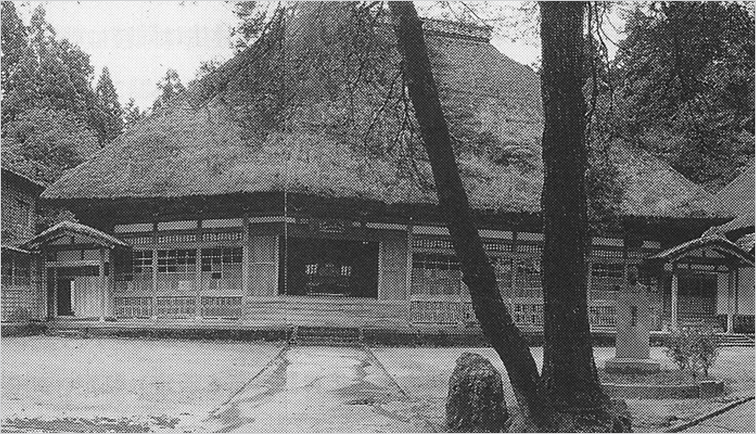
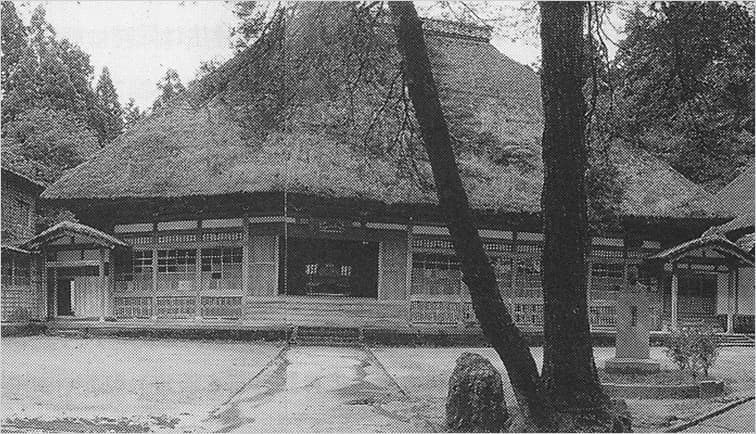
perf(top): 余白圧縮・画像最適化・ヒーロー本文の可読性向上
実機プレビューとパフォーマンス計測（LCP/CLS）のフィードバックに対応。

- 各セクション（あゆみ/お知らせ/会員の方へ）の縦パディングを
  clamp(64px,10vw,120px) → clamp(48px,6vw,80px) に圧縮。ヒーローも
  clamp(72px,12vw,140px) → clamp(56px,8vw,96px) に調整し PC の間延びを解消
- あゆみの節目間の余白と見出し下マージンも詰めて総スクロール量を削減
- 歴史写真・ヒーロー画像を mozjpeg で再エンコード（361KB→87KB / 281KB→63KB）
  し LCP を改善
- ヒーロー画像に fetchPriority="high" と quality を指定（priority は既存）
- あゆみ画像に aspect-ratio と h-auto を明示し、sizes を実レイアウトに合わせて
  CLS を抑制
- ヒーローのコピーを 17px→19px・font-medium・濃色(#241F19)に変更し、
  高齢利用者向けにコントラストと文字サイズを引き上げ

既存機能（認証・ニュース・寄付・署名・名簿・管理画面）のコードは不変更。

Claude-Session: https://claude.ai/code/session_01242bf4G46yDp9rnbArKu1p

diff --git a/components/home/history.tsx b/components/home/history.tsx
@@ -38,19 +38,19 @@ export function History() {
   return (
     <section
       id="history"
-      className="mx-auto max-w-[880px] px-6 py-[clamp(64px,10vw,120px)]"
+      className="mx-auto max-w-[880px] px-6 py-[clamp(48px,6vw,80px)]"
     >
       <h2 className="m-0 mb-3 font-serif text-[clamp(24px,3.5vw,32px)] font-semibold tracking-[0.2em]">
         あゆみ
       </h2>
-      <p className="m-0 mb-14 text-base tracking-[0.1em] text-ink-muted">HISTORY</p>
+      <p className="m-0 mb-10 text-base tracking-[0.1em] text-ink-muted">HISTORY</p>
 
       <div className="flex flex-col">
         {ENTRIES.map((entry) => (
           <div
             key={entry.era}
             className={`grid grid-cols-[24px_1fr] gap-[clamp(20px,4vw,40px)] ${
-              entry.last ? "" : "pb-[clamp(48px,8vw,80px)]"
+              entry.last ? "" : "pb-[clamp(36px,5vw,56px)]"
             }`}
           >
             {/* タイムラインの軸（丸印 + 縦線） */}
@@ -73,8 +73,10 @@ export function History() {
                 alt={entry.image.alt}
                 width={756}
                 height={434}
-                sizes="(max-width: 880px) 100vw, 640px"
-                className="block w-full max-w-[640px] border border-washi-line"
+                sizes="(max-width: 880px) calc(100vw - 88px), 640px"
+                // 幅可変でも width/height と aspect-ratio で描画前に領域を確保し CLS を防ぐ。
+                style={{ aspectRatio: "756 / 434" }}
+                className="block h-auto w-full max-w-[640px] border border-washi-line"
               />
               <p className="m-0 max-w-[38em] text-base leading-[1.9] text-ink-soft">
                 {entry.body}

diff --git a/components/home/hero.tsx b/components/home/hero.tsx
@@ -12,6 +12,8 @@ export function Hero() {
         alt="旧校舎"
         fill
         priority
+        fetchPriority="high"
+        quality={70}
         sizes="100vw"
         className="object-cover contrast-[0.9] grayscale"
       />
@@ -24,7 +26,7 @@ export function Hero() {
         }}
       />
 
-      <div className="relative flex flex-col items-center gap-8 px-6 py-[clamp(72px,12vw,140px)] text-center">
+      <div className="relative flex flex-col items-center gap-8 px-6 py-[clamp(56px,8vw,96px)] text-center">
         {/* 円相（欠けた円）。禅の美意識を表す装飾。 */}
         <svg
           width="180"
@@ -53,7 +55,8 @@ export function Hero() {
           一〇六年のあゆみ
         </h1>
 
-        <p className="m-0 max-w-[34em] text-[17px] leading-[2] tracking-[0.06em] text-ink-soft">
+        {/* 高齢の利用者向けに、本文よりやや大きめ・高コントラストにする。 */}
+        <p className="m-0 max-w-[34em] text-[19px] font-medium leading-[1.95] tracking-[0.06em] text-[#241F19]">
           越後加茂の地に学び舎を得て一世紀余。
           <br />
           ここは、すべての卒業生の帰る場所です。

diff --git a/components/home/member-links.tsx b/components/home/member-links.tsx
@@ -36,12 +36,12 @@ export function MemberLinks() {
   return (
     <section
       id="members"
-      className="mx-auto max-w-[1080px] px-6 py-[clamp(64px,10vw,120px)]"
+      className="mx-auto max-w-[1080px] px-6 py-[clamp(48px,6vw,80px)]"
     >
       <h2 className="m-0 mb-3 font-serif text-[clamp(24px,3.5vw,32px)] font-semibold tracking-[0.2em]">
         会員の方へ
       </h2>
-      <p className="m-0 mb-12 text-base tracking-[0.1em] text-ink-muted">
+      <p className="m-0 mb-10 text-base tracking-[0.1em] text-ink-muted">
         FOR MEMBERS
       </p>
 

diff --git a/components/home/news-list.tsx b/components/home/news-list.tsx
@@ -15,7 +15,7 @@ type NewsSectionProps = {
 export function NewsSection({ items }: NewsSectionProps) {
   return (
     <section id="news" className="bg-washi-panel">
-      <div className="mx-auto max-w-[880px] px-6 py-[clamp(64px,10vw,120px)]">
+      <div className="mx-auto max-w-[880px] px-6 py-[clamp(48px,6vw,80px)]">
         <h2 className="m-0 mb-3 font-serif text-[clamp(24px,3.5vw,32px)] font-semibold tracking-[0.2em]">
           お知らせ
         </h2>
